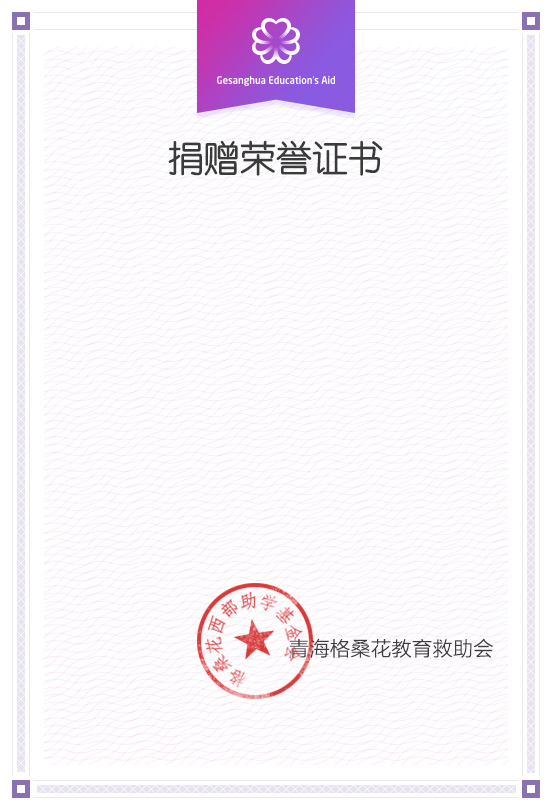
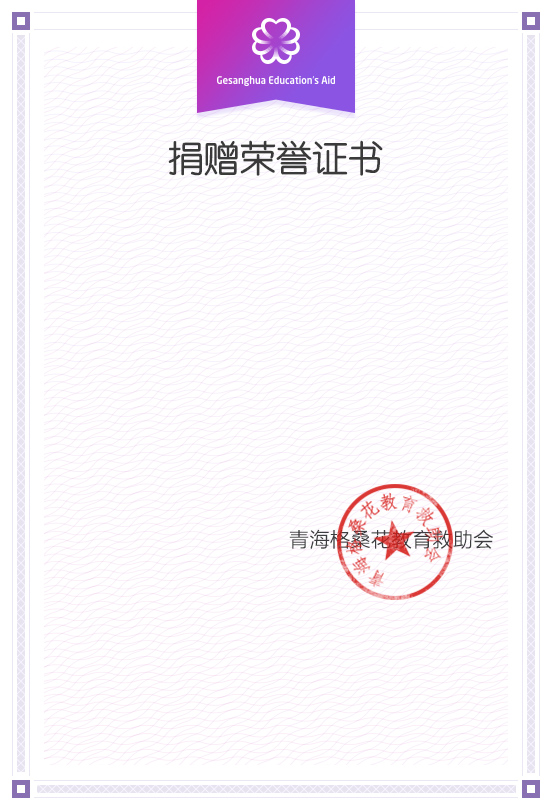
捐赠证书调整

Changed region(s): [[0.3388, 0.7099, 0.8931, 0.8642], [0.5236, 0.5864, 0.8931, 0.7407]]

diff --git a/lib/gen_donate_certificate.rb b/lib/gen_donate_certificate.rb
@@ -13,21 +13,33 @@ class GenDonateCertificate
       name = record.donor.try(:card_name)
       # name |= '用户'
 
-      render_text(source, 60, 320, "感谢您！亲爱的#{name}，") {|c| c.pointsize '24'}
-      project_name = record.project_name
-      content = if project_name.present?
-        "　　感谢为支持格桑花西部助学#{project_name}项目慷慨捐赠#{number_to_currency record.amount}元。谨代表受帮助的孩子向您表示最崇高敬意和衷心感谢！\n　　特颁此证，以资纪念。"
-      else
-        "　　感谢为支持格桑花西部助学慷慨捐赠#{number_to_currency record.amount}元。谨代表受帮助的孩子向您表示最崇高敬意和衷心感谢！\n　　特颁此证，以资纪念。"
+      render_text(source, 60, 260, "亲爱的") {|c| c.pointsize '24'}
+      render_text(source, 132, 260, "#{name}，") do |c|
+        c.pointsize '24'
+        # c.weight 600
       end
-      render_content(source, content)
+
+      content1 ="　　感谢您为支持格桑花西部助学慷慨捐赠"
+      amount = "#{number_to_currency record.amount}"
+      content2 ="元。谨代表受助学生向您表示最崇高的敬意和衷心的感谢！\n　　特颁此证，以资纪念。"
+      render_text(source, 60, 300, content1)
+
+      length = 0
+      amount.each_char { |chr| length += (chr.ord < 129 ? 1 : 2);length += 12 }
+      render_text(source, 60, 340, amount) do |c|
+        c.pointsize '22'
+        c.fill '#d22ca4'
+        # c.weight 600
+      end
+
+      render_content(source, content2, amount, length)
 
       donate_at = record.created_at
-      render_text(source, 308, 685, "#{donate_at.year}年#{donate_at.month}月#{donate_at.day}日") do |c|
-        c.pointsize '20'
+      render_text(source, 360, 580, "#{donate_at.year}年#{donate_at.month}月#{donate_at.day}日") do |c|
+        c.pointsize '18'
       end
 
-      render_text(source, 60, 750, "捐赠编号：#{record.certificate_no}") do |c|
+      render_text(source, 60, 650, "捐赠编号：#{record.certificate_no}") do |c|
         c.pointsize '20'
       end
 
@@ -43,15 +55,17 @@ class GenDonateCertificate
   def self.format_text(text)
     text.gsub("\r\n", "\n").each_line.map do |line|
       str = ""; index = 1
-      line.each_char { |chr| str << chr; index += (chr.ord < 129 ? 1 : 2); str << "\n" and index = 1 if index > 38 }
+      line.each_char { |chr| str << chr; index += (chr.ord < 129 ? 1 : 2); str << "\n" and index = 1 if index > 36 }
       str
     end.join
   end
 
-  def self.render_content(src, message)
-    formated_text = format_text(message)
+  def self.render_content(src, message, amount, length)
+    formated_text = format_text(amount + message)
     formated_text.each_line.each_with_index do |line, index|
-      render_text(src, 60, 375 + index * 40, line)
+      left = index == 0 ? 60 + length : 60
+      line = index == 0 ? line.delete!(amount) : line
+      render_text(src, left, 340 + index * 40, line)
     end
   end
 

diff --git a/app/models/donation.rb b/app/models/donation.rb
@@ -52,7 +52,7 @@ class Donation < ApplicationRecord
 
   # 生成收入
   def gen_income_record
-    IncomeRecord.create(donation: self, agent: self.agent, fund: self.project.fund, amount: self.amount, balance: self.amount, donor: self.donor, promoter_id: self.promoter_id, income_time: Time.now, title: self.title)
+    IncomeRecord.create(donation: self, agent: self.agent, fund: self.project.try(:fund), amount: self.amount, balance: self.amount, donor: self.donor, promoter_id: self.promoter_id, income_time: Time.now, title: self.title)
   end
 
   # 返回微信支付js
